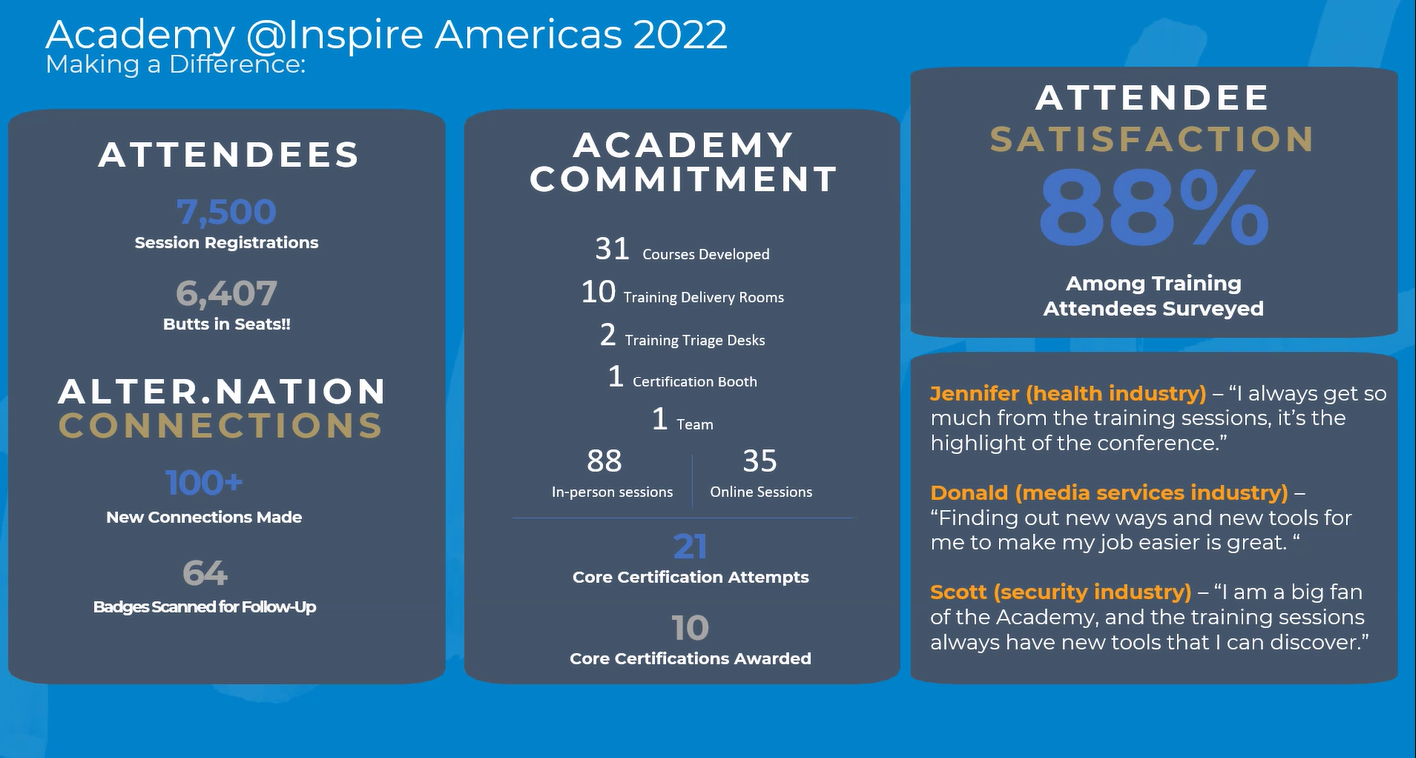
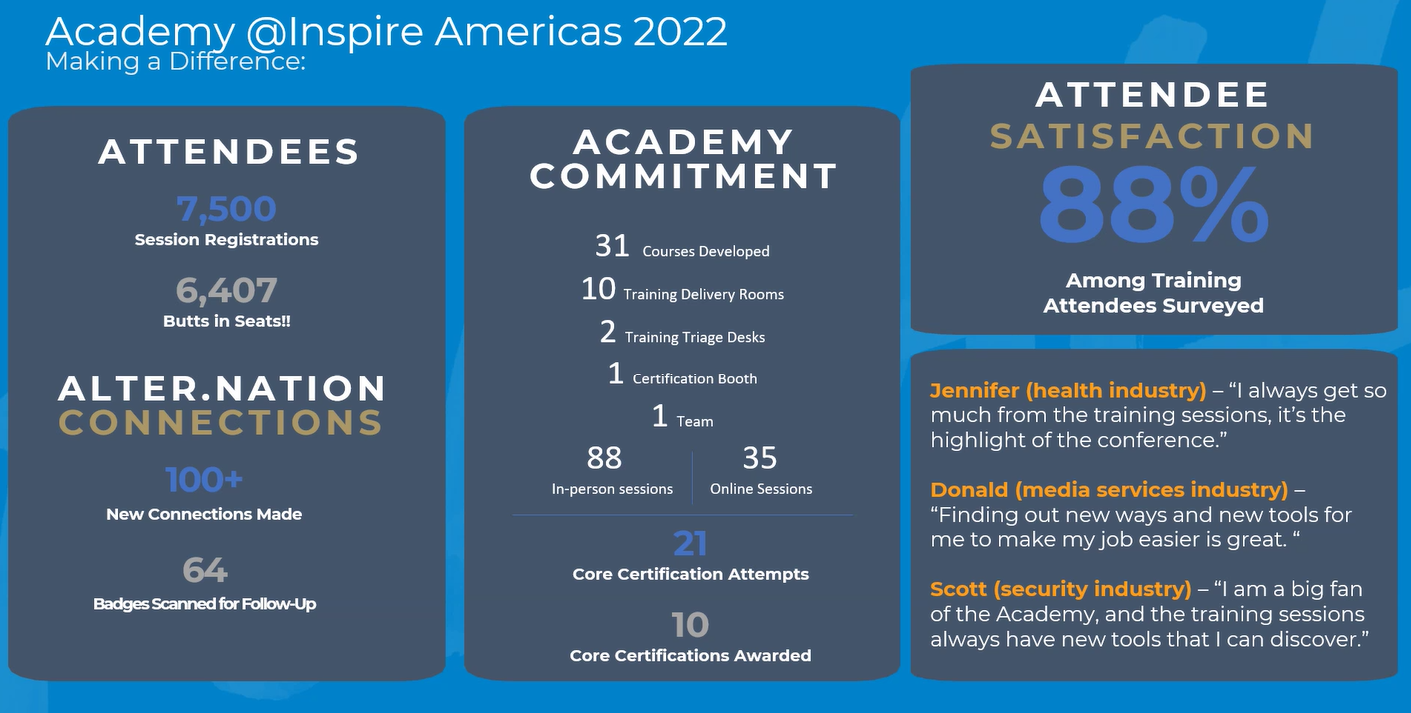
Resizing

diff --git a/portfolio-details 8.html b/portfolio-details 8.html
@@ -126,7 +126,7 @@
             </div>
 
             <div class="swiper-slide">
-              <img src="assets/img/Inspire-2.jpeg" alt="" style="width:70%; height:70%; display:block; margin:0 auto;">
+              <img src="assets/img/Inspire-3.png" alt="" style="width:70%; height:70%; display:block; margin:0 auto;">
             </div>
 
             <div class="swiper-slide">
